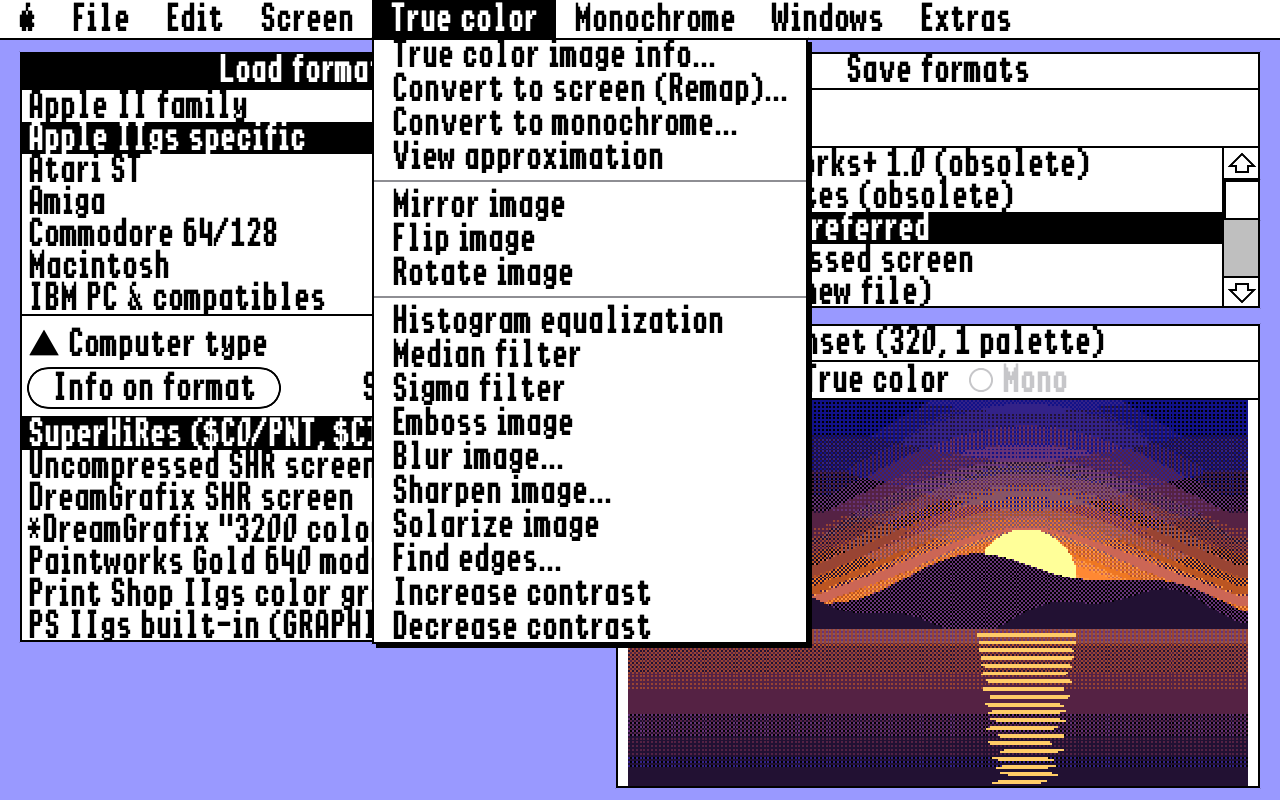
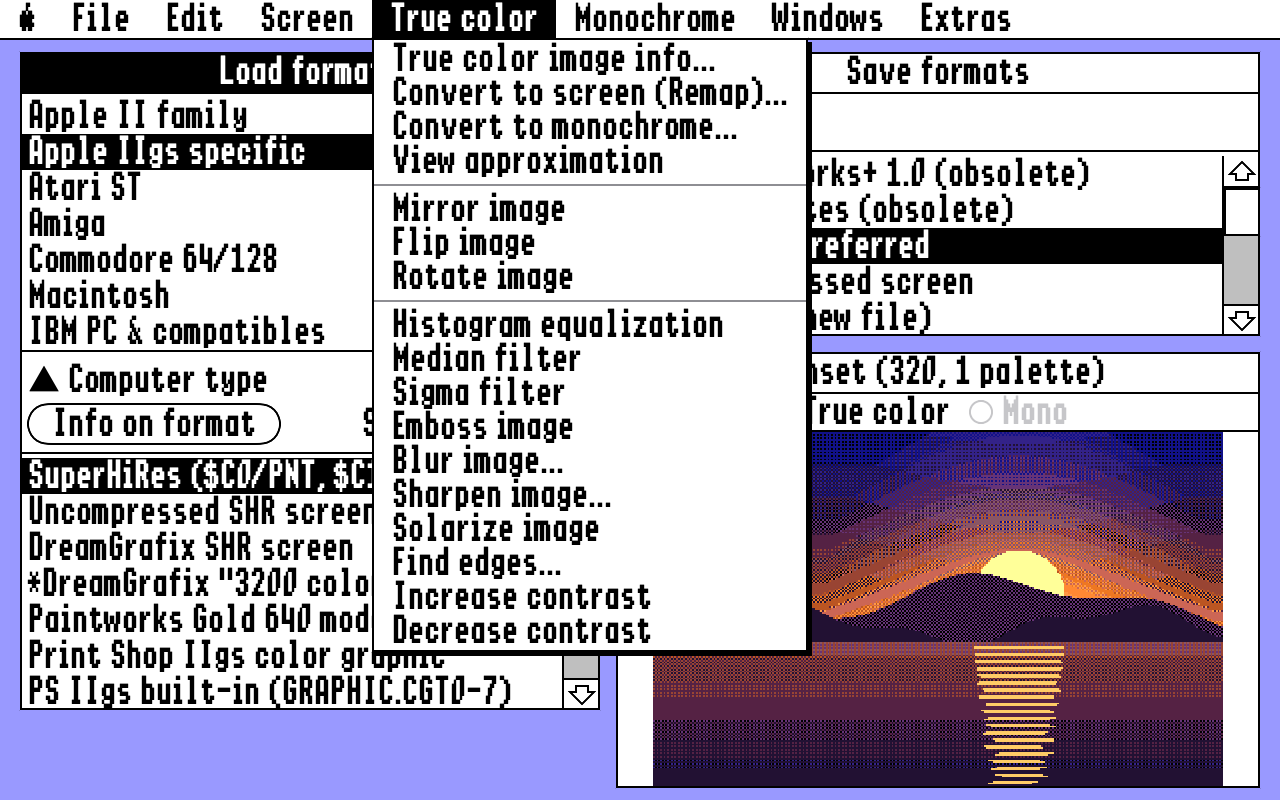
Add space above the first line in lists, window titles and menus
Screenshots regenerated.

diff --git a/App/GSStyle.swift b/App/GSStyle.swift
@@ -35,7 +35,8 @@ enum GS {
         case .system: return Font.custom("Geneva", size: 12)
         }
     }
-    static let rowHeight: CGFloat = 16
+    /// List rows are a little taller than the type so the first line clears the frame above it.
+    static let rowHeight: CGFloat = 18
 }
 
 /// A IIgs document window: black title bar when active, hairline frame.
@@ -51,7 +52,7 @@ struct GSWindow<Content: View>: View {
                 .lineLimit(1)
                 .foregroundColor(active ? .white : .black)
                 .frame(maxWidth: .infinity)
-                .frame(height: 18)
+                .frame(height: 20)
                 .background(active ? Color.black : Color.white)
             Rectangle().fill(Color.black).frame(height: 1)
             content
@@ -165,6 +166,8 @@ struct GSList: View {
             scrollBar
         }
         .frame(height: CGFloat(rows) * GS.rowHeight)
+        .padding(.top, 2)
+        .background(Color.white)
         .onChange(of: items.count) { _ in top = 0 }
     }
 

diff --git a/App/DesktopView.swift b/App/DesktopView.swift
@@ -188,6 +188,7 @@ struct DesktopView: View {
                 }
             }
         }
+        .padding(.vertical, 2)
         .fixedSize()
         .background(Color.white)
         .border(Color.black, width: 1)
